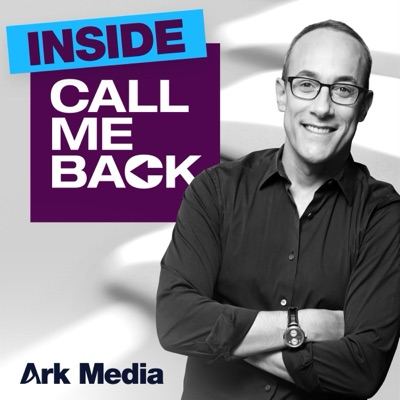
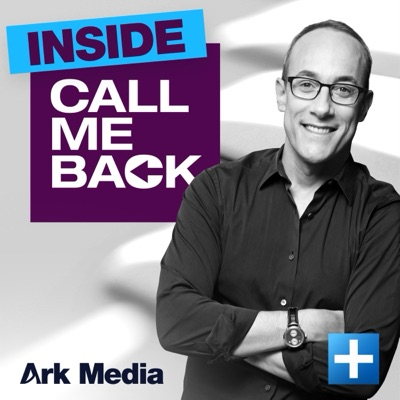
Install finalised cover art and The Fold brand assets
Cover art, re-derived from the 4000px masters through
scripts/gen-image-variants.sh so the variants and the manifest stay in sync:

  - Chosen People Problems now has its own art, replacing the Ask a Jew
    placeholder it had been standing up on.
  - For Heaven's Sake is genuinely new art (deeper ribbons), not a re-encode.
  - Call Me Back and Ark News Daily are the same art off a sharper source.
  - inside-cmb.jpg switches to the Ark+-badged ICMB variant: it's the private
    member feed's cover, so the badge belongs on it. (Nothing renders it today —
    the show is still commented out in data/shows.ts.)

The CPP note in data/shows.ts is narrowed rather than deleted: `listen` still
points at the Ask a Jew feed and `cadence` is still a guess, and the episode
artwork and descriptions come from the podcast host at runtime, so they keep
showing Ask a Jew's until the host is updated.

The Fold gets its own identity. All four supplied logo files are the Fold's
(the "Logo Vertical" pair is its vertical lockup, not Ark Media's), so no Ark
wordmark changes here:

  - FoldLogo renders the theme-swapped horizontal lockup on the same contract
    as ArkLogo; ProductMarks renders the row of product marks that heads a tier
    card, pairing the Fold's sail with the existing Ark+ icon. The two come
    from different artwork families and size by different rules, which is why
    one component owns both.
  - /fold carries the lockup above its h1 and a .fold-bg backdrop on both the
[…]

Changed region(s): [[0.81, 0.81, 0.96, 0.96]]

diff --git a/src/components/FoldLogo.tsx b/src/components/FoldLogo.tsx
@@ -1,0 +1,103 @@
+import wordmarkDark from "../assets/fold-wordmark.png";
+import wordmarkLight from "../assets/fold-wordmark-light.png";
+import markSrc from "../assets/fold-mark.png";
+import { useTheme } from "../lib/theme";
+import { ArkPlusMark } from "./ArkPlusMark";
+import type { ProductMark } from "../data/pricingTiers";
+
+/**
+ * The Fold horizontal lockup (sail mark + wordmark), themed to the active
+ * background — same contract as {@link ArkLogo}: size it with a height class,
+ * never a pixel prop, so call sites can go responsive. The lockup is ~5.3:1.
+ *
+ * `max-w-full` + `object-contain` guard the same failure ArkLogo does: in a
+ * tight flex row the width gets clamped while the height class holds, which
+ * would squash the wordmark horizontally.
+ */
+export function FoldLogo({ className = "h-10" }: { className?: string }) {
+  const { theme } = useTheme();
+  const src = theme === "light" ? wordmarkDark : wordmarkLight;
+
+  return (
+    <img
+      src={src}
+      width={1200}
+      height={225}
+      className={`w-auto max-w-full object-contain object-left ${className}`}
+      alt="The Fold"
+    />
+  );
+}
+
+/**
+ * The sail mark on its own. Not exported: surfaces that want it want a *row* of
+ * product marks, so {@link ProductMarks} below is the entry point. The artwork
+ * is a transparent PNG of the two gradient sails, so unlike {@link ArkPlusMark}
+ * it carries no field of its own and needs no light/dark swap.
+ *
+ * Decorative by default (the adjacent label says "The Fold"), so `alt` is empty
+ * and the image is hidden from assistive tech; pass `alt` where nothing else
+ * names it. Size it with a height class — the mark is ~1.39:1, not square, so a
+ * square class pair would letterbox it.
+ */
+function FoldMark({
+  className = "h-8",
+  alt = "",
+}: {
+  className?: string;
+  alt?: string;
+}) {
+  return (
+    <img
+      src={markSrc}
+      width={512}
+      height={369}
+      loading="lazy"
+      decoding="async"
+      alt={alt}
+      {...(alt === "" ? { "aria-hidden": true } : {})}
+      className={`w-auto shrink-0 object-contain ${className}`}
+    />
+  );
+}
+
+/**
+ * The row of product marks that heads a tier card / checkout — Ark+'s app icon,
+ * the Fold's sail, or both for the Bundle. Kept here rather than inline at each
+ * call site because the two marks come from different artwork families and are
+ * sized by different rules: {@link ArkPlusMark} is a square app icon that needs a
+ * matched w/h pair (a bare height class leaves it at its intrinsic 256px width,
+ * letterboxed inside its own border), while {@link FoldMark} is a ~1.39:1
+ * transparent lockup that must keep `w-auto`. Only a shared box gets both right.
+ *
+ * `size` is a token, not a class, so Tailwind can see the literal class strings.
+ * Decorative — every call site prints the tier label beside it.
+ */
+const MARK_SIZE = {
+  sm: { square: "size-5", height: "h-5" },
+  md: { square: "size-7", height: "h-7" },
+} as const;
+
+export function ProductMarks({
+  marks,
+  size = "md",
+}: {
+  marks: readonly ProductMark[];
+  size?: keyof typeof MARK_SIZE;
+}) {
+  if (marks.length === 0) return null;
+
+  const { square, height } = MARK_SIZE[size];
+
+  return (
+    <span className="inline-flex shrink-0 items-center gap-2">
+      {marks.map((m) =>
+        m === "fold" ? (
+          <FoldMark key={m} className={height} />
+        ) : (
+          <ArkPlusMark key={m} className={square} />
+        ),
+      )}
+    </span>
+  );
+}

diff --git a/src/index.css b/src/index.css
@@ -492,6 +492,50 @@ body {
     linear-gradient(180deg, #fdeee6 0%, #fbe6da 48%, #f8dccd 100%);
 }
 
+/* The Fold — the one backdrop in the family that is a supplied brand image
+   rather than hand-authored gradients (Ark's "The Fold Bg 01/02"). The sails in
+   the logo are amber over teal, and the artwork is the same gesture blown up,
+   so the Fold reads as its own product rather than another show wash.
+
+   The image's dark mass sits on the LEFT, which is where the hero puts its h1
+   and lede — so the copy lands on the quiet side and the bright streak falls
+   behind the app-badge column on the right. `background-position: right center`
+   keeps that relationship when `cover` crops on narrow viewports (a `center`
+   crop would walk the streak under the headline). The scrim on top is the
+   guardrail for the stacked mobile layout, where the lede does end up over the
+   brighter half. */
+.fold-bg {
+  background-image:
+    linear-gradient(90deg, rgba(7, 11, 34, 0.92) 0%, rgba(7, 11, 34, 0.55) 45%, rgba(7, 11, 34, 0.12) 100%),
+    url("/fold/hero-dark.jpg");
+  background-repeat: no-repeat;
+  background-position: right center;
+  background-size: cover;
+  background-color: var(--color-navy-900);
+}
+[data-theme="light"] .fold-bg {
+  background-image:
+    linear-gradient(90deg, rgba(255, 253, 250, 0.88) 0%, rgba(255, 253, 250, 0.5) 45%, rgba(255, 253, 250, 0.1) 100%),
+    url("/fold/hero-light.jpg");
+}
+
+/* Below `lg` the hero stacks: the lede goes full-width and runs straight
+   through the bright streak the horizontal scrim was shaped to leave alone. Flatten
+   the scrim to an even veil at those widths — the artwork still reads, the copy
+   keeps its contrast. */
+@media (width < 64rem) {
+  .fold-bg {
+    background-image:
+      linear-gradient(90deg, rgba(7, 11, 34, 0.9) 0%, rgba(7, 11, 34, 0.82) 100%),
+      url("/fold/hero-dark.jpg");
+  }
+  [data-theme="light"] .fold-bg {
+    background-image:
+      linear-gradient(90deg, rgba(255, 253, 250, 0.86) 0%, rgba(255, 253, 250, 0.78) 100%),
+      url("/fold/hero-light.jpg");
+  }
+}
+
 /* Top fade for the bespoke show washes — let each colored wash emerge from the
    masthead's navy instead of butting against it with a hard seam. The overlay
    sits above the wash but behind the hero content (z-index/isolation), and melts
@@ -501,13 +545,15 @@ body {
 .and-bg,
 .cmb-bg,
 .icmb-bg,
-.fhs-bg {
+.fhs-bg,
+.fold-bg {
   isolation: isolate;
 }
 .and-bg::before,
 .cmb-bg::before,
 .icmb-bg::before,
-.fhs-bg::before {
+.fhs-bg::before,
+.fold-bg::before {
   content: "";
   position: absolute;
   inset: 0 0 auto 0;

diff --git a/src/components/PageShell.tsx b/src/components/PageShell.tsx
@@ -2,13 +2,21 @@ import type { ReactNode } from "react";
 
 export function PageShell({
   breadcrumbs,
+  brand,
   title,
   titleSrOnly = false,
   lede,
   aside,
+  heroClassName,
   children,
 }: {
   breadcrumbs?: ReactNode;
+  /**
+   * A product lockup shown above the h1 — for pages that belong to a sub-brand
+   * with its own logo (the Fold). Unlike {@link titleSrOnly} this keeps the
+   * headline: the logo says *which product*, the h1 still says what the page is.
+   */
+  brand?: ReactNode;
   title: ReactNode;
   /**
    * Keep the h1 in the document (SEO + screen readers) but drop it from the
@@ -20,19 +28,27 @@ export function PageShell({
   // Optional content pinned to the right of the hero on desktop (e.g. app
   // download badges). Stacks below the title/lede on narrow screens.
   aside?: ReactNode;
+  /**
+   * Extra classes for the hero <section> — the hook for a page's brand
+   * backdrop (`fold-bg grain-overlay overflow-hidden`), mirroring how
+   * ShowPage applies showAtmosphere(). Omit it and the hero stays transparent
+   * over the page background.
+   */
+  heroClassName?: string;
   children?: ReactNode;
 }) {
   return (
     <main className="relative">
-      <section className="section-hero relative">
-        <div className="page-gutter pt-8 pb-10 sm:pt-12">
+      <section className={`section-hero relative ${heroClassName ?? ""}`}>
+        <div className="page-gutter relative pt-8 pb-10 sm:pt-12">
           {breadcrumbs ? <div className="mb-6">{breadcrumbs}</div> : null}
           <div className="flex flex-col gap-8 lg:flex-row lg:items-end lg:justify-between lg:gap-16">
             <div className="min-w-0">
+              {brand ? <div className="mt-8">{brand}</div> : null}
               {titleSrOnly ? (
                 <h1 className="sr-only">{title}</h1>
               ) : (
-                <h1 className="mt-8 max-w-3xl">
+                <h1 className={`max-w-3xl ${brand ? "mt-6" : "mt-8"}`}>
                   <span className="display-upright block text-h1">{title}</span>
                 </h1>
               )}

diff --git a/src/routes/fold.tsx b/src/routes/fold.tsx
@@ -16,6 +16,7 @@ import { isCircleMember, useSubscriberAuth } from "../lib/subscriberAuth";
 import { CommunityFeed } from "../components/community/CommunityFeed";
 import { LiveEventsStrip } from "../components/community/LiveEventsStrip";
 import { CommunityAppLinks } from "../components/CommunityAppLinks";
+import { FoldLogo } from "../components/FoldLogo";
 
 export const Route = createFileRoute("/fold")({
   component: CommunityPage,
@@ -125,9 +126,11 @@ function SubscriberCommunity() {
 
   return (
     <PageShell
+      brand={<FoldLogo className="h-9 sm:h-11" />}
       title="Real People, Real Conversations, Real Connection"
       lede="What's live, what's happening, and what the Fold is talking about right now. Jump in — every conversation continues in the app."
       aside={<CommunityAppLinks />}
+      heroClassName="fold-bg grain-overlay overflow-hidden"
     >
       {status === "error" ? (
         <section>
@@ -168,9 +171,11 @@ function SubscriberCommunity() {
 function MarketingShowcase() {
   return (
     <PageShell
+      brand={<FoldLogo className="h-9 sm:h-11" />}
       title="Real People, Real Conversations, Real Connection"
       lede="The Fold is where Ark listeners become part of the conversation. Join a private, thoughtful community for serious discussion, meaningful connection, and deeper engagement with the questions shaping Jewish life, Israel, and the world."
       aside={<CommunityAppLinks />}
+      heroClassName="fold-bg grain-overlay overflow-hidden"
     >
       <section>
         <div className="page-gutter flex flex-col gap-12 py-12 sm:py-16">

diff --git a/src/components/CheckoutModal.tsx b/src/components/CheckoutModal.tsx
@@ -36,6 +36,8 @@ import {
   posFromAmount,
   snapStep,
 } from "../lib/pwycSlider";
+import { ProductMarks } from "./FoldLogo";
+import type { ProductMark } from "../data/pricingTiers";
 
 type Plan = "monthly" | "yearly";
 type Tier = "ark-plus" | "circle" | "bundle";
@@ -55,6 +57,15 @@ const TIER_LABEL: Record<Tier, string> = {
   "ark-plus": "Ark+ Membership",
   circle: "The Fold",
   bundle: "Ark+ & The Fold",
+};
+
+// The brand marks beside that label, mirroring the tier cards on /plus so the
+// modal reads as a continuation of the card the buyer just clicked. Same grant
+// as TIERS[].marks in data/pricingTiers.ts.
+const TIER_MARKS: Record<Tier, ProductMark[]> = {
+  "ark-plus": ["ark-plus"],
+  circle: ["fold"],
+  bundle: ["ark-plus", "fold"],
 };
 
 type Step =
@@ -432,8 +443,11 @@ export function CheckoutModal({
           Without the padding this line runs underneath it on a phone, where
           the longest tier label and the period barely fit the width as it is —
           it wraps to two lines instead, which is the harmless outcome. */}
-      <p id="checkout-desc" className="eyebrow pr-10">
-        {TIER_LABEL[tier]} · {plan === "yearly" ? "Annual" : "Monthly"}
+      <p id="checkout-desc" className="flex items-center gap-2 eyebrow pr-10">
+        <ProductMarks marks={TIER_MARKS[tier]} size="sm" />
+        <span>
+          {TIER_LABEL[tier]} · {plan === "yearly" ? "Annual" : "Monthly"}
+        </span>
       </p>
 
       {step.kind === "email" ? (

diff --git a/src/data/pricingTiers.ts b/src/data/pricingTiers.ts
@@ -11,7 +11,17 @@ export type TierMeta = {
   blurb: string;
   includes: string[];
   featured?: boolean;
+  /**
+   * Which product marks head the card, in order. This is the *grant*, not the
+   * label — which is why the Bundle carries both: two marks say "you get both
+   * products" faster than the label does. Rendered decoratively (the label
+   * beside them already names the tier).
+   */
+  marks: ProductMark[];
 };
+
+/** The two things a membership can grant, each with its own brand mark. */
+export type ProductMark = "ark-plus" | "fold";
 
 // The three SKUs, in card order: Ark+, then the Bundle (featured, center), then
 // the Fold. The Fold is NOT part of Ark+ — it's its own tier, and the Bundle
@@ -20,6 +30,7 @@ export const TIERS: TierMeta[] = [
   {
     key: "ark-plus",
     label: "Ark+",
+    marks: ["ark-plus"],
     blurb:
       "Every Ark Media podcast, ad-free, plus the members-only newsletters.",
     includes: [
@@ -31,6 +42,7 @@ export const TIERS: TierMeta[] = [
   {
     key: "bundle",
     label: "Ark+ & The Fold",
+    marks: ["ark-plus", "fold"],
     blurb: "Both — the private feed and the Fold, one membership.",
     featured: true,
     includes: [
@@ -44,6 +56,7 @@ export const TIERS: TierMeta[] = [
   {
     key: "circle",
     label: "The Fold",
+    marks: ["fold"],
     blurb:
       "The Fold, Ark Media's members' app — conversations, member events, and Dan's book club.",
     includes: [

diff --git a/src/data/shows.ts b/src/data/shows.ts
@@ -102,12 +102,14 @@ export const shows: Show[] = [
     paid: false,
     listen: showListenLinks["ark-news-daily"],
   },
-  // PLACEHOLDER CONTENT. Chosen People Problems has no assets of its own yet, so
-  // it stands up on Ask a Jew's cover art, description, hosts, and listen links
-  // (Ava's call — "use Ask a Jew materials for now"). Every field below except
-  // `slug`, `route`, `title`, and `shortTitle` is Ask a Jew's and needs
-  // replacing. It is also absent from `schedule` below: we don't know when it
-  // drops, and a guess would put a wrong show in the masthead's next-drop strip.
+  // PARTLY PLACEHOLDER. The cover art is now the show's own (finalised art, added
+  // 2026-09-10), and the tagline/description/hosts match it. What is still Ask a
+  // Jew's: `listen` — every link in showListenLinks["chosen-people-problems"]
+  // still points at the Ask a Jew feed/channel — and `cadence`. The episode
+  // artwork and per-episode descriptions come from the podcast host at runtime,
+  // not from here, so those update when the host's do. It is also absent from
+  // `schedule` below: we don't know when it drops, and a guess would put a wrong
+  // show in the masthead's next-drop strip.
   {
     slug: "chosen-people-problems",
     route: "/podcasts/chosen-people-problems",

diff --git a/src/components/PricingCards.tsx b/src/components/PricingCards.tsx
@@ -3,6 +3,7 @@ import { BillingPeriodToggle } from "./BillingPeriodToggle";
 import { CheckoutModal } from "./CheckoutModal";
 import { ContentError } from "./ContentError";
 import { PriceSkeleton } from "./PriceSkeleton";
+import { ProductMarks } from "./FoldLogo";
 import { trackEvent } from "../lib/analytics";
 import { TIERS, type Tier, type TierMeta } from "../data/pricingTiers";
 import { type TierAmounts, formatMinor, toMajor } from "../lib/currency";
@@ -76,8 +77,11 @@ function PriceCard({
         </span>
       ) : null}
 
-      <div className="text-h4 font-display font-bold text-fg-strong">
-        {meta.label}
+      <div className="flex items-center gap-3">
+        <ProductMarks marks={meta.marks} />
+        <div className="text-h4 font-display font-bold text-fg-strong">
+          {meta.label}
+        </div>
       </div>
 
       <div className="mt-5 border-t border-rule pt-5">
